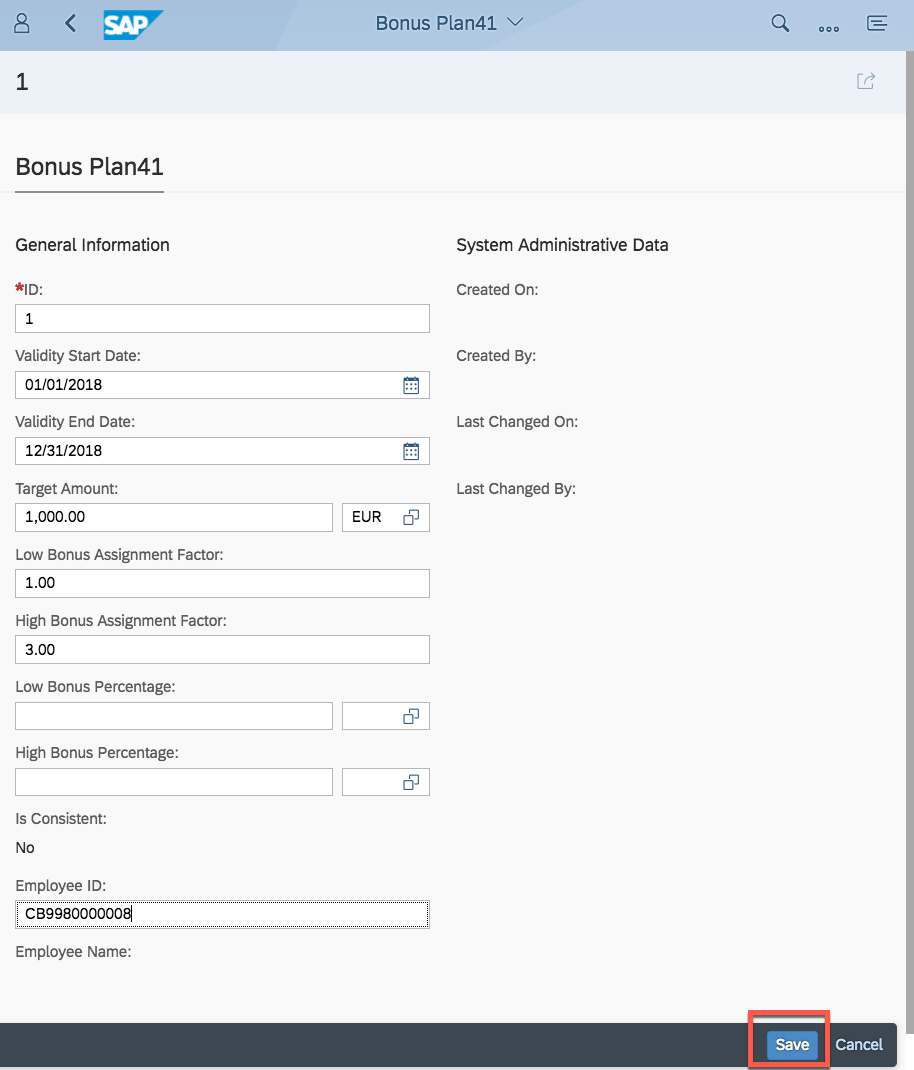
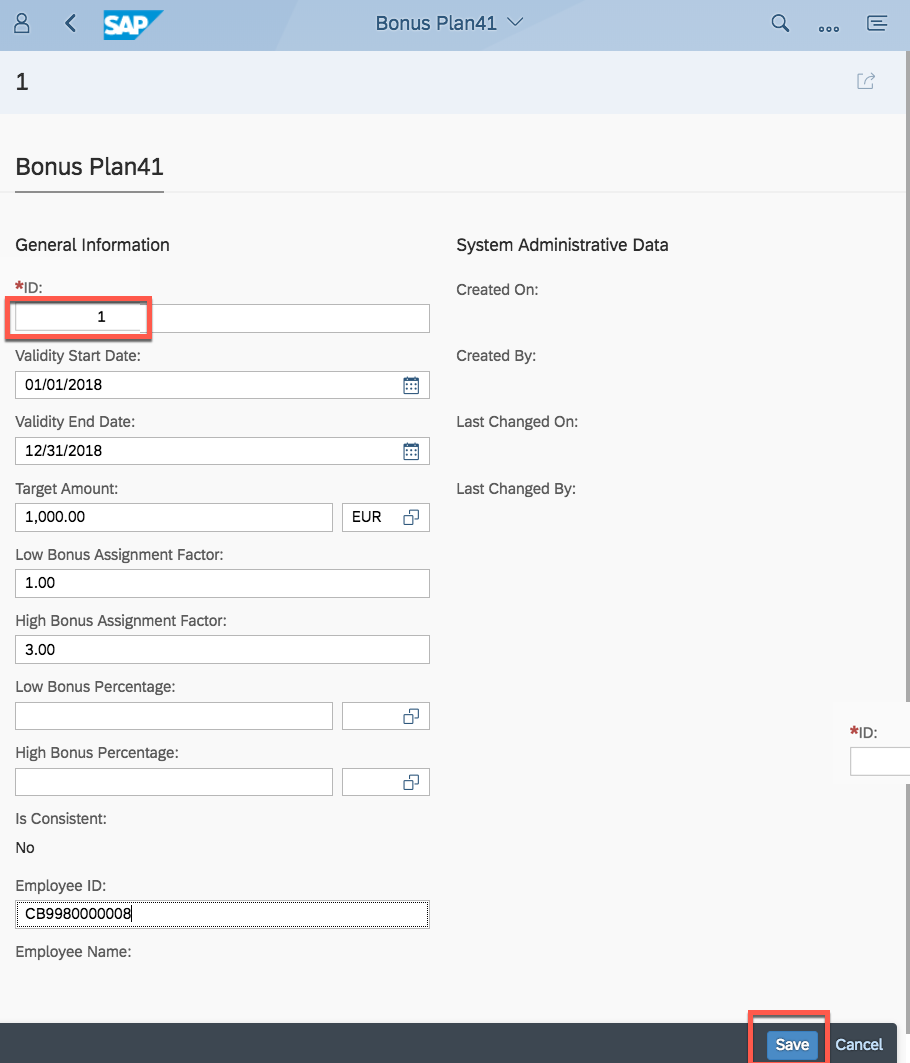
Update Exercises 32

diff --git a/Day3/Exercise_32/Exercise_32.md b/Day3/Exercise_32/Exercise_32.md
@@ -94,7 +94,7 @@ Here below are prerequisites for this exercise.
 
 ### <a name="image-classification"></a> Use SAP Leonardo ML Image Classification on API Business Hub
 
-1. Go back to <https://api.sap.com/shell/discover/contentpackage/SAPLeonardoMLFunctionalServices/Artifacts>
+1. Go back to <https://api.sap.com/package/SAPLeonardoMLFunctionalServices?section=Artifacts>
 	![](images/15.png)
 
 1. 	Enter the text "image" in the search box, hit ENTER and choose **Image Classifier Service**  
@@ -126,8 +126,8 @@ Required resources for this step:
 1. Open Firefox, as Chrome will use SSO for SAP Employees, and navigate to SAP Cloud Platform Cockpit via <http://cloudplatform.sap.com>  
 	![](images/01b.png)
 
-1. Login with your given e-Mail 
-**ml-train+XX@sap.com**, where **XX** must be replaced by your workstation ID, and the password provided by the trainer. 
+1. Login with your SAP Cloud Platform **trial** account. 
+ 
 	![](images/02b.png)
 
 1.	Click on **Neo Trial**
@@ -145,10 +145,7 @@ Required resources for this step:
 1. This will open up the SAP Web IDE. 
 	![](images/06b.png)
 
-1. Click on the **Development** tab on the left toolbar. If you see that there is already a project named *MLFSAPUI5\_Project\_Exercise* in the workspace, please right click on its name and choose **Delete**  
-	![](images/07b.png)
-
-1. You should start with a completely empty workspace like the one in the picture  
+1. Click on the Development tab on the left toolbar.  
 	![](images/08b.png)
 
 1.	From the **File** menu click on **Import -> File or Project**  
@@ -175,13 +172,7 @@ In this exercise you will learn how to quickly integrate in a SAPUI5 application
 * Adjust your prepared SAPUI5 application
 * Run the SAPUI5 application and test your ML Services.
 
-1.	Open a new tab in your Firefox web browser and go to SAP Cloud Platform Cockpit <http://account.hanatrial.ondemand.com/cockpit>. Login in case you are not already logged in by using the given credentials and not SSO  
-	![](images/12b.png)
-
-1.	Click on the **Neo Trial** tile  
-	![](images/13b.png)
-
-1.	On the left side bar, select **Connectivity -> Destinations**. You need now to install the webide_di destination: if this destination is already existing, please continue with step 10  
+1.	Go the SAP Cloud Platform Neo Cockpit Overview. On the left side bar, select **Connectivity -> Destinations**. You need now to install the webide_di destination: if this destination is already existing, please continue with step 10  
 	>NOTE: This destination is only required by SAP Web IDE to run applications in Web Preview mode: it's not related to ML
 
 	![](images/14b.png)

diff --git a/Day1/Exercise_12/Exercise_12.md b/Day1/Exercise_12/Exercise_12.md
@@ -117,19 +117,19 @@ In the first parts a Manager wants to define business objects "Bonus Plan" for e
 	
 1. **Enter** following data
 
-	| Field | Value |
-	| :------------- | :--------------------------- |
-	| ID | 1 |
-	| Validity Start Date | 01/01/2018 |
-	| Validity End Date | 12/31/2018 |
-	| Target Amount | 1000.00 EUR |
-	| Low Bonus Assignment Factor | 1 |
-	| High Bonus Assignment Factor | 3 |
-	| Employee ID | CBXXXXXXXXXX |
+	| Field | Value | Note |
+	| :------------- | :--------------------|:-------------------- |
+	| ID | xxxxxxxxxxxxxxxxxx1 | Replace the xxxxxxxxxxxxxxxxxx with space.  There are 18 spaces before 1.  |
+	| Validity Start Date | 01/01/2018 |  |
+	| Validity End Date | 12/31/2018 |  |
+	| Target Amount | 1000.00 EUR |  |
+	| Low Bonus Assignment Factor | 1 |  |
+	| High Bonus Assignment Factor | 3 |  |
+	| Employee ID | CBXXXXXXXXXX |  |
 
 1. Employee ID CBXXXXXXXXXX shall be the one of a sales person that created sales orders with a Net Amount of more than 3000.00 EUR in 2018 and that are completed. In this exercise, you can use CB9980000008. 
 
-	![](images/14.png)
+	![](images/14.png) 
 	
 1. **Save** the Bonus Plan. The UI will automatically return from Bonus Plan Detail to Master.
 
